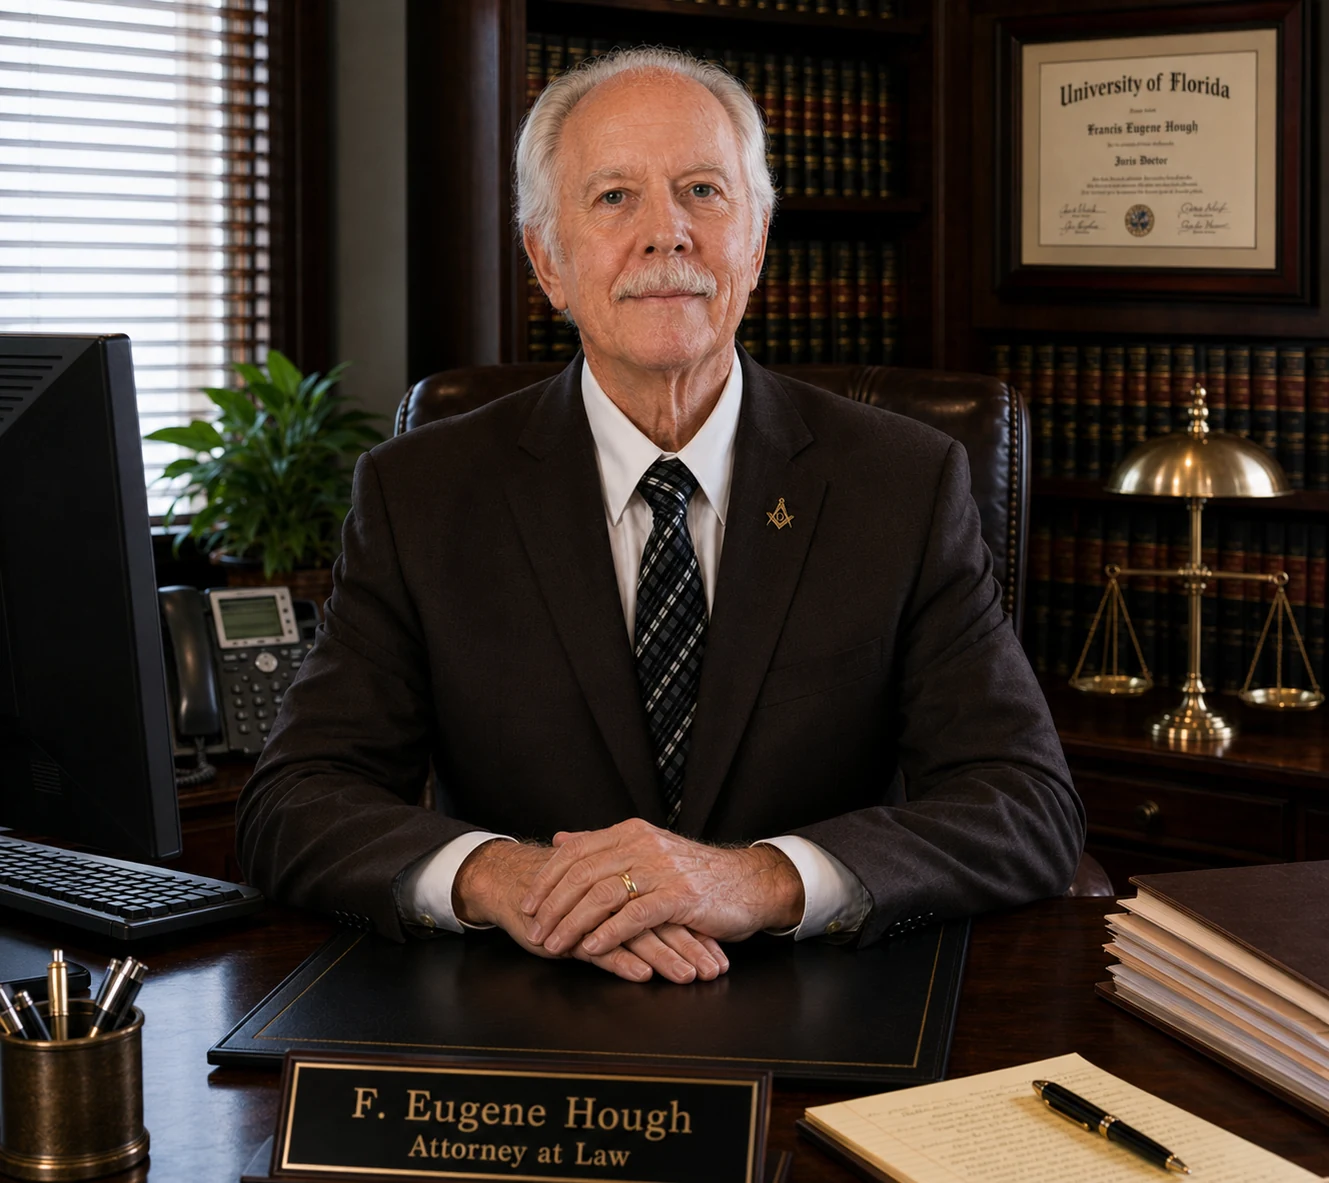
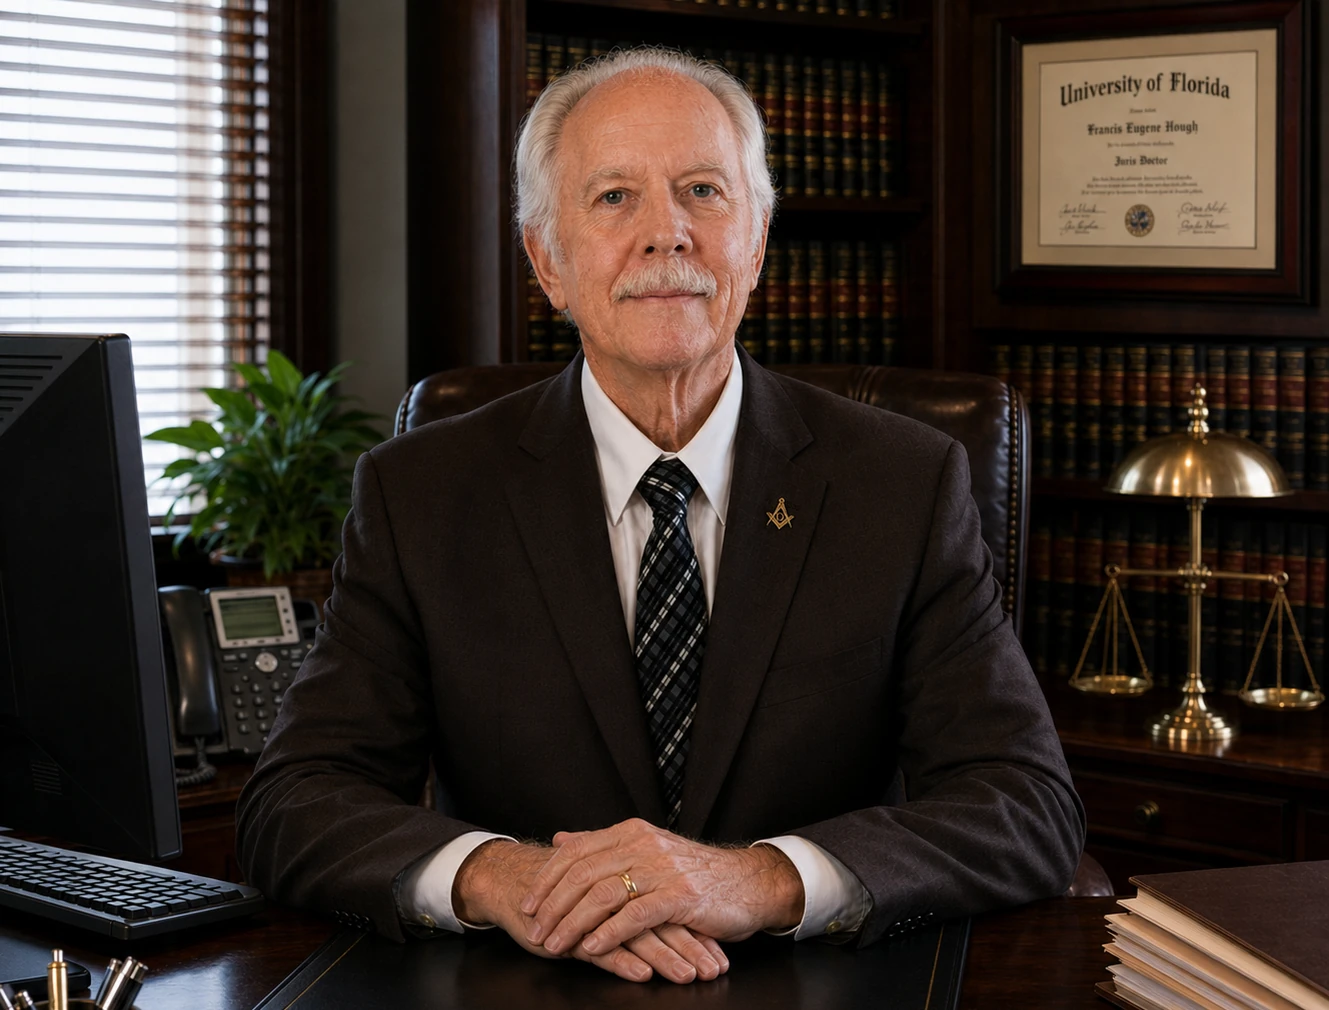
Add files via upload

diff --git a/style.css b/style.css
@@ -5,7 +5,6 @@
   --paper: #f5f2ea;
   --ink: #20242a;
   --muted: #666b72;
-  --line: rgba(20, 38, 61, 0.18);
   --shadow: 0 24px 70px rgba(12, 25, 41, 0.18);
 }
 
@@ -36,7 +35,7 @@ body {
 
 .card {
   display: grid;
-  grid-template-columns: minmax(0, 1.08fr) minmax(340px, 0.92fr);
+  grid-template-columns: minmax(0, 1.06fr) minmax(390px, 0.94fr);
   overflow: hidden;
   min-height: 650px;
   background: var(--paper);
@@ -54,33 +53,34 @@ body {
   width: 100%;
   height: 100%;
   object-fit: cover;
-  object-position: center 38%;
+  object-position: center 24%;
 }
 
 .content {
   display: flex;
   flex-direction: column;
   justify-content: center;
-  padding: 64px 58px;
+  padding: 58px 46px;
   text-align: center;
 }
 
 .eyebrow {
-  margin: 0 0 12px;
+  margin: 0 0 14px;
   color: var(--gold);
-  font-size: clamp(0.95rem, 1.6vw, 1.15rem);
+  font-size: clamp(0.88rem, 1.35vw, 1.05rem);
   font-weight: 700;
-  letter-spacing: 0.13em;
+  letter-spacing: 0.10em;
   text-transform: uppercase;
+  white-space: nowrap;
 }
 
 h1 {
   margin: 0;
   color: var(--navy);
-  font-size: clamp(3rem, 6vw, 5.2rem);
+  font-size: clamp(2.8rem, 5.2vw, 4.65rem);
   font-weight: 500;
-  line-height: 0.98;
-  letter-spacing: -0.035em;
+  line-height: 1;
+  letter-spacing: -0.032em;
 }
 
 .rule {
@@ -101,25 +101,25 @@ h1 {
 .credentials {
   max-width: 560px;
   margin-top: 0;
-  margin-bottom: 14px;
+  margin-bottom: 15px;
   color: var(--navy);
-  font-size: clamp(1.2rem, 2.2vw, 1.55rem);
+  font-size: clamp(1.18rem, 2vw, 1.5rem);
   line-height: 1.45;
 }
 
 .standing {
   margin-top: 0;
-  margin-bottom: 22px;
+  margin-bottom: 23px;
   color: var(--muted);
-  font-size: 1.05rem;
-  line-height: 1.5;
+  font-size: 1.12rem;
+  line-height: 1.48;
 }
 
 .locations {
   margin-top: 0;
-  margin-bottom: 24px;
+  margin-bottom: 25px;
   color: var(--ink);
-  font-size: 1.1rem;
+  font-size: 1.15rem;
   font-weight: 700;
   letter-spacing: 0.02em;
 }
@@ -133,21 +133,21 @@ h1 {
   margin-top: 0;
   margin-bottom: 30px;
   color: var(--navy);
-  font-size: 1.08rem;
+  font-size: 1.11rem;
   font-style: italic;
 }
 
 .contact {
   display: flex;
   flex-direction: column;
-  gap: 10px;
+  gap: 11px;
   align-items: center;
 }
 
 .contact a {
   color: var(--navy);
   font-family: Arial, Helvetica, sans-serif;
-  font-size: 1.08rem;
+  font-size: 1.18rem;
   font-weight: 700;
   text-decoration: none;
   border-bottom: 1px solid transparent;
@@ -162,15 +162,21 @@ h1 {
 footer {
   width: min(900px, 100%);
   margin: 22px auto 0;
-  color: rgba(255, 255, 255, 0.72);
+  color: rgba(255, 255, 255, 0.76);
   font-family: Arial, Helvetica, sans-serif;
-  font-size: 0.78rem;
+  font-size: 0.8rem;
   line-height: 1.55;
   text-align: center;
 }
 
 footer p {
   margin: 0;
+}
+
+@media (max-width: 980px) {
+  .eyebrow {
+    white-space: normal;
+  }
 }
 
 @media (max-width: 860px) {
@@ -188,7 +194,7 @@ footer p {
   }
 
   .portrait {
-    object-position: center 34%;
+    object-position: center 20%;
   }
 
   .content {
@@ -206,7 +212,7 @@ footer p {
   }
 
   .eyebrow {
-    letter-spacing: 0.09em;
+    letter-spacing: 0.07em;
   }
 
   .locations span {
